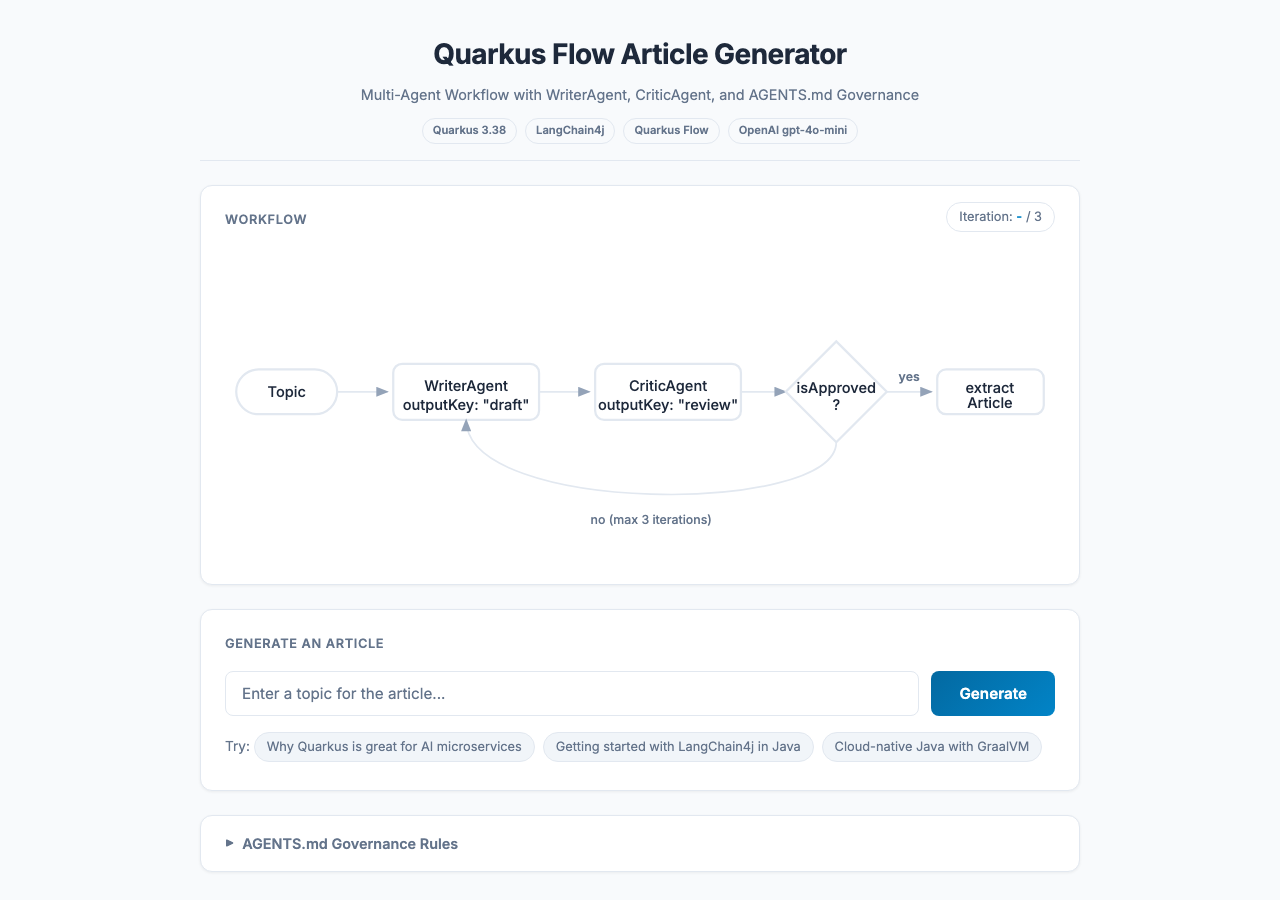
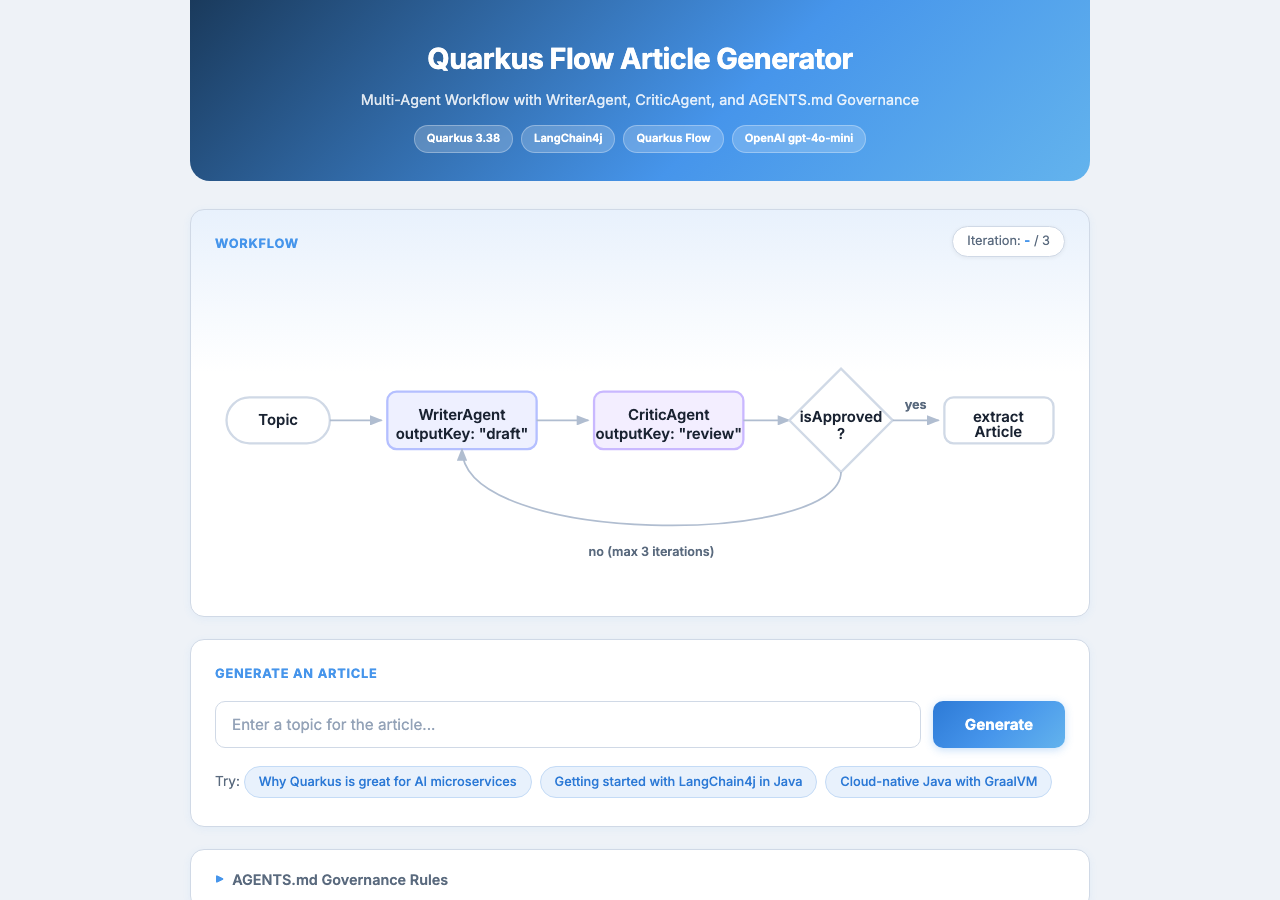
Restyle web UI with Quarkus-inspired blue theme
Blue gradient header, tinted workflow section, colored agent nodes
(indigo for WriterAgent, purple for CriticAgent), deeper shadows,
and Quarkus blue (#4695EB) as the primary accent throughout.

diff --git a/src/main/resources/META-INF/resources/index.html b/src/main/resources/META-INF/resources/index.html
@@ -9,20 +9,21 @@
     *, *::before, *::after { box-sizing: border-box; margin: 0; padding: 0; }
 
     :root {
-      --bg: #f8fafc;
+      --bg: #eef2f7;
       --surface: #ffffff;
-      --surface-elevated: #f1f5f9;
-      --border: #e2e8f0;
-      --text: #1e293b;
-      --text-secondary: #64748b;
-      --accent: #0284c7;
-      --accent-hover: #0369a1;
-      --success: #059669;
-      --warning: #d97706;
-      --error: #dc2626;
-      --writer: #6366f1;
-      --critic: #9333ea;
-      --radius: 12px;
+      --surface-elevated: #f0f4fa;
+      --border: #d0d9e6;
+      --text: #1a2332;
+      --text-secondary: #5a6a7e;
+      --accent: #4695EB;
+      --accent-hover: #2d7ad6;
+      --accent-light: #e8f1fc;
+      --success: #10b981;
+      --warning: #f59e0b;
+      --error: #ef4444;
+      --writer: #4f6bed;
+      --critic: #8b5cf6;
+      --radius: 14px;
     }
 
     body {
@@ -33,87 +34,99 @@
       min-height: 100vh;
     }
 
-    .container { max-width: 920px; margin: 0 auto; padding: 0 20px; }
+    .container { max-width: 940px; margin: 0 auto; padding: 0 20px; }
 
+    /* Header with gradient banner */
     header {
-      padding: 32px 0 16px;
+      background: linear-gradient(135deg, #1a3a5c 0%, #4695EB 60%, #63b3ed 100%);
+      padding: 36px 0 28px;
       text-align: center;
-      border-bottom: 1px solid var(--border);
+      border-radius: 0 0 20px 20px;
+      margin-bottom: 8px;
     }
-    header h1 { font-size: 1.75rem; font-weight: 700; letter-spacing: -0.02em; margin-bottom: 6px; }
-    header p { color: var(--text-secondary); font-size: 0.9rem; }
-    .badges { display: flex; gap: 8px; justify-content: center; margin-top: 12px; }
+    header h1 { font-size: 1.8rem; font-weight: 700; letter-spacing: -0.02em; margin-bottom: 6px; color: #fff; }
+    header p { color: rgba(255,255,255,0.85); font-size: 0.9rem; }
+    .badges { display: flex; gap: 8px; justify-content: center; margin-top: 14px; flex-wrap: wrap; }
     .badge {
-      font-size: 0.7rem; font-weight: 600; padding: 3px 10px;
-      border-radius: 20px; border: 1px solid var(--border); color: var(--text-secondary);
+      font-size: 0.7rem; font-weight: 600; padding: 4px 12px;
+      border-radius: 20px; background: rgba(255,255,255,0.2); color: #fff; backdrop-filter: blur(4px);
+      border: 1px solid rgba(255,255,255,0.3);
     }
 
-    main { padding: 24px 0 48px; display: flex; flex-direction: column; gap: 24px; }
+    main { padding: 20px 0 48px; display: flex; flex-direction: column; gap: 22px; }
 
-    section { background: var(--surface); border: 1px solid var(--border); border-radius: var(--radius); padding: 24px; box-shadow: 0 1px 3px rgba(0,0,0,0.06); }
-    section h2 { font-size: 1rem; font-weight: 600; margin-bottom: 16px; color: var(--text-secondary); text-transform: uppercase; letter-spacing: 0.05em; font-size: 0.8rem; }
+    section {
+      background: var(--surface); border: 1px solid var(--border); border-radius: var(--radius);
+      padding: 24px; box-shadow: 0 2px 8px rgba(70,149,235,0.07);
+    }
+    section h2 {
+      font-size: 0.8rem; font-weight: 700; margin-bottom: 16px; color: var(--accent);
+      text-transform: uppercase; letter-spacing: 0.06em;
+    }
 
     /* Workflow SVG */
-    #workflow-section { position: relative; }
+    #workflow-section { position: relative; background: linear-gradient(180deg, var(--accent-light) 0%, var(--surface) 40%); }
     #workflow-svg { width: 100%; height: auto; display: block; }
     .iteration-badge {
       position: absolute; top: 16px; right: 24px;
       font-size: 0.8rem; color: var(--text-secondary);
-      background: var(--surface); padding: 4px 12px; border-radius: 20px;
-      border: 1px solid var(--border);
+      background: var(--surface); padding: 4px 14px; border-radius: 20px;
+      border: 1px solid var(--border); box-shadow: 0 1px 4px rgba(0,0,0,0.06);
     }
-    .iteration-badge span { color: var(--accent); font-weight: 600; }
+    .iteration-badge span { color: var(--accent); font-weight: 700; }
 
     /* SVG node styles */
     .node-shape { fill: var(--surface); stroke: var(--border); stroke-width: 2; transition: all 0.3s ease; }
-    .node-label { fill: var(--text); font-family: 'Inter', sans-serif; font-size: 13px; font-weight: 500; text-anchor: middle; dominant-baseline: central; }
-    .node-icon { fill: var(--text-secondary); }
-    .edge-line { stroke: var(--border); stroke-width: 1.5; fill: none; transition: stroke 0.3s ease; }
+    .node-group.writer .node-shape { fill: #eef0ff; stroke: #b4bfff; }
+    .node-group.critic .node-shape { fill: #f3eeff; stroke: #c9b8ff; }
+    .node-label { fill: var(--text); font-family: 'Inter', sans-serif; font-size: 13px; font-weight: 600; text-anchor: middle; dominant-baseline: central; }
+    .edge-line { stroke: #b0bdd0; stroke-width: 1.5; fill: none; transition: stroke 0.3s ease; }
     .edge-label { fill: var(--text-secondary); font-family: 'Inter', sans-serif; font-size: 11px; text-anchor: middle; }
 
-    .node-group.active .node-shape { stroke: var(--accent); stroke-width: 2.5; filter: drop-shadow(0 0 6px rgba(2,132,199,0.4)); }
-    .node-group.active.writer .node-shape { stroke: var(--writer); filter: drop-shadow(0 0 6px rgba(99,102,241,0.4)); }
-    .node-group.active.critic .node-shape { stroke: var(--critic); filter: drop-shadow(0 0 6px rgba(147,51,234,0.4)); }
-    .node-group.completed .node-shape { stroke: var(--success); stroke-width: 2; }
-    .node-group.completed .node-label { fill: var(--success); }
+    .node-group.active .node-shape { stroke: var(--accent); stroke-width: 3; fill: var(--accent-light); filter: drop-shadow(0 0 10px rgba(70,149,235,0.45)); }
+    .node-group.active.writer .node-shape { stroke: var(--writer); fill: #e0e5ff; filter: drop-shadow(0 0 10px rgba(79,107,237,0.45)); }
+    .node-group.active.critic .node-shape { stroke: var(--critic); fill: #ebe5ff; filter: drop-shadow(0 0 10px rgba(139,92,246,0.45)); }
+    .node-group.completed .node-shape { stroke: var(--success); stroke-width: 2.5; fill: #ecfdf5; }
+    .node-group.completed .node-label { fill: #047857; }
 
-    .edge-line.active { stroke: var(--accent); stroke-width: 2; }
-    .edge-line.loop-active { stroke: var(--warning); stroke-width: 2; stroke-dasharray: 8 4; animation: dash-flow 0.6s linear infinite; }
+    .edge-line.active { stroke: var(--accent); stroke-width: 2.5; }
+    .edge-line.loop-active { stroke: var(--warning); stroke-width: 2.5; stroke-dasharray: 8 4; animation: dash-flow 0.6s linear infinite; }
     @keyframes dash-flow { to { stroke-dashoffset: -12; } }
-    @keyframes pulse { 0%,100% { opacity: 1; } 50% { opacity: 0.6; } }
+    @keyframes pulse { 0%,100% { opacity: 1; } 50% { opacity: 0.5; } }
     .node-group.active .node-shape { animation: pulse 1.5s ease-in-out infinite; }
 
     /* Input */
     #input-section form { display: flex; gap: 12px; }
     #topic-input {
-      flex: 1; padding: 12px 16px; border-radius: 8px; border: 1px solid var(--border);
+      flex: 1; padding: 13px 16px; border-radius: 10px; border: 1.5px solid var(--border);
       background: var(--surface); color: var(--text); font-size: 0.95rem; font-family: inherit;
-      outline: none; transition: border-color 0.2s;
+      outline: none; transition: all 0.2s;
     }
-    #topic-input:focus { border-color: var(--accent); box-shadow: 0 0 0 2px rgba(2,132,199,0.15); }
-    #topic-input::placeholder { color: var(--text-secondary); }
+    #topic-input:focus { border-color: var(--accent); box-shadow: 0 0 0 3px rgba(70,149,235,0.15); }
+    #topic-input::placeholder { color: #94a3b8; }
     #generate-btn {
-      padding: 12px 28px; border-radius: 8px; border: none; cursor: pointer;
-      background: linear-gradient(135deg, var(--accent-hover), var(--accent)); color: #fff;
-      font-weight: 600; font-size: 0.95rem; font-family: inherit; white-space: nowrap; transition: opacity 0.2s;
+      padding: 13px 32px; border-radius: 10px; border: none; cursor: pointer;
+      background: linear-gradient(135deg, #2d7ad6, #4695EB, #63b3ed); color: #fff;
+      font-weight: 700; font-size: 0.95rem; font-family: inherit; white-space: nowrap;
+      transition: all 0.2s; box-shadow: 0 2px 8px rgba(70,149,235,0.3);
     }
-    #generate-btn:hover:not(:disabled) { opacity: 0.9; }
-    #generate-btn:disabled { opacity: 0.5; cursor: not-allowed; }
-    .example-topics { margin-top: 12px; font-size: 0.85rem; color: var(--text-secondary); }
+    #generate-btn:hover:not(:disabled) { box-shadow: 0 4px 14px rgba(70,149,235,0.4); transform: translateY(-1px); }
+    #generate-btn:disabled { opacity: 0.5; cursor: not-allowed; transform: none; box-shadow: none; }
+    .example-topics { margin-top: 14px; font-size: 0.85rem; color: var(--text-secondary); }
     .chip {
-      display: inline-block; padding: 4px 12px; margin: 4px 4px 4px 0;
-      background: var(--surface-elevated); border: 1px solid var(--border); border-radius: 20px;
-      cursor: pointer; font-size: 0.8rem; color: var(--text-secondary); transition: all 0.2s;
+      display: inline-block; padding: 5px 14px; margin: 4px 4px 4px 0;
+      background: var(--accent-light); border: 1px solid #c4dbf6; border-radius: 20px;
+      cursor: pointer; font-size: 0.8rem; color: var(--accent-hover); transition: all 0.2s; font-weight: 500;
     }
-    .chip:hover { border-color: var(--accent); color: var(--accent); }
+    .chip:hover { background: #d4e6f9; border-color: var(--accent); color: var(--accent); }
 
     /* Progress */
     #progress-section.hidden, #article-section.hidden, #error-banner.hidden { display: none; }
-    #progress-log { display: flex; flex-direction: column; gap: 6px; max-height: 300px; overflow-y: auto; }
+    #progress-log { display: flex; flex-direction: column; gap: 4px; max-height: 300px; overflow-y: auto; }
     .log-entry {
-      display: flex; align-items: center; gap: 10px; padding: 6px 0;
+      display: flex; align-items: center; gap: 10px; padding: 7px 12px; border-radius: 8px;
       font-size: 0.85rem; opacity: 0; transform: translateY(8px);
-      animation: log-in 0.3s ease forwards;
+      animation: log-in 0.3s ease forwards; background: var(--surface-elevated);
     }
     @keyframes log-in { to { opacity: 1; transform: translateY(0); } }
     .log-dot { width: 8px; height: 8px; border-radius: 50%; flex-shrink: 0; }
@@ -128,56 +141,57 @@
 
     /* Error */
     #error-banner {
-      background: #fef2f2; border: 1px solid var(--error); border-radius: 8px;
-      padding: 12px 16px; color: var(--error); font-size: 0.9rem;
+      background: #fef2f2; border: 1px solid var(--error); border-radius: 10px;
+      padding: 14px 18px; color: #b91c1c; font-size: 0.9rem; font-weight: 500;
     }
 
     /* Article */
     .article-header { display: flex; justify-content: space-between; align-items: center; margin-bottom: 16px; }
     #copy-btn {
-      padding: 6px 16px; border-radius: 6px; border: 1px solid var(--border);
-      background: transparent; color: var(--text-secondary); cursor: pointer;
-      font-size: 0.8rem; font-family: inherit; transition: all 0.2s;
+      padding: 7px 18px; border-radius: 8px; border: 1.5px solid var(--border);
+      background: var(--surface); color: var(--text-secondary); cursor: pointer;
+      font-size: 0.8rem; font-family: inherit; font-weight: 500; transition: all 0.2s;
     }
-    #copy-btn:hover { border-color: var(--accent); color: var(--accent); }
+    #copy-btn:hover { border-color: var(--accent); color: var(--accent); background: var(--accent-light); }
     .article-prose {
-      background: var(--surface-elevated); border-radius: 8px; padding: 24px; border-left: 3px solid var(--accent);
+      background: var(--surface-elevated); border-radius: 10px; padding: 28px; border-left: 4px solid var(--accent);
       max-height: 600px; overflow-y: auto; line-height: 1.8;
     }
     .article-prose h1 { font-size: 1.4rem; font-weight: 700; margin: 20px 0 10px; color: var(--text); }
-    .article-prose h2 { font-size: 1.15rem; font-weight: 600; margin: 18px 0 8px; color: var(--text); }
-    .article-prose h3 { font-size: 1rem; font-weight: 600; margin: 14px 0 6px; color: var(--text); }
+    .article-prose h2 { font-size: 1.15rem; font-weight: 600; margin: 18px 0 8px; color: #1a3a5c; }
+    .article-prose h3 { font-size: 1rem; font-weight: 600; margin: 14px 0 6px; color: #1a3a5c; }
     .article-prose p { margin-bottom: 12px; color: var(--text); }
     .article-prose strong { color: var(--text); font-weight: 700; }
-    .article-prose code { background: #e2e8f0; padding: 2px 6px; border-radius: 4px; font-size: 0.85em; font-family: 'JetBrains Mono', monospace; }
-    .article-prose pre { background: #1e293b; color: #e2e8f0; padding: 16px; border-radius: 8px; overflow-x: auto; margin: 12px 0; }
-    .article-prose pre code { background: none; padding: 0; }
+    .article-prose code { background: #dde5ef; padding: 2px 7px; border-radius: 5px; font-size: 0.85em; font-family: 'JetBrains Mono', monospace; color: #1a3a5c; }
+    .article-prose pre { background: #1a2332; color: #cbd5e1; padding: 18px; border-radius: 10px; overflow-x: auto; margin: 14px 0; }
+    .article-prose pre code { background: none; padding: 0; color: inherit; }
     .article-prose ul, .article-prose ol { margin: 8px 0 12px 24px; }
     .article-prose li { margin-bottom: 4px; }
 
     /* Governance */
-    .governance-panel { background: var(--surface); border: 1px solid var(--border); border-radius: var(--radius); box-shadow: 0 1px 3px rgba(0,0,0,0.06); }
+    .governance-panel { background: var(--surface); border: 1px solid var(--border); border-radius: var(--radius); box-shadow: 0 2px 8px rgba(70,149,235,0.07); }
     .governance-panel summary {
-      padding: 16px 24px; cursor: pointer; font-weight: 600; font-size: 0.9rem;
+      padding: 18px 24px; cursor: pointer; font-weight: 600; font-size: 0.9rem;
       color: var(--text-secondary); list-style: none; display: flex; align-items: center; gap: 8px;
     }
-    .governance-panel summary::before { content: '\25B6'; font-size: 0.7rem; transition: transform 0.2s; }
+    .governance-panel summary::before { content: '\25B6'; font-size: 0.7rem; transition: transform 0.2s; color: var(--accent); }
     .governance-panel[open] summary::before { transform: rotate(90deg); }
     .governance-panel summary::-webkit-details-marker { display: none; }
     .governance-content { padding: 0 24px 20px; }
-    .governance-content h3 { font-size: 0.85rem; font-weight: 600; margin: 12px 0 6px; color: var(--accent); }
+    .governance-content h3 { font-size: 0.85rem; font-weight: 700; margin: 14px 0 6px; color: var(--accent); }
     .governance-content ul { margin-left: 20px; font-size: 0.85rem; color: var(--text-secondary); }
-    .governance-content li { margin-bottom: 4px; }
+    .governance-content li { margin-bottom: 5px; }
 
     footer {
-      text-align: center; padding: 24px 0; border-top: 1px solid var(--border);
+      text-align: center; padding: 28px 0; border-top: 1px solid var(--border);
       font-size: 0.8rem; color: var(--text-secondary);
     }
-    footer a { color: var(--accent); text-decoration: none; }
+    footer a { color: var(--accent); text-decoration: none; font-weight: 500; }
     footer a:hover { text-decoration: underline; }
 
     @media (max-width: 640px) {
       header h1 { font-size: 1.3rem; }
+      header { border-radius: 0; }
       #input-section form { flex-direction: column; }
       section { padding: 16px; }
       #workflow-svg { overflow-x: auto; }
@@ -205,13 +219,13 @@
         <svg id="workflow-svg" viewBox="0 0 740 280" xmlns="http://www.w3.org/2000/svg">
           <defs>
             <marker id="arrow" viewBox="0 0 10 8" refX="9" refY="4" markerWidth="8" markerHeight="6" orient="auto-start-reverse">
-              <path d="M 0 0 L 10 4 L 0 8 z" fill="#94a3b8" class="arrow-fill"/>
+              <path d="M 0 0 L 10 4 L 0 8 z" fill="#b0bdd0"/>
             </marker>
             <marker id="arrow-active" viewBox="0 0 10 8" refX="9" refY="4" markerWidth="8" markerHeight="6" orient="auto-start-reverse">
-              <path d="M 0 0 L 10 4 L 0 8 z" fill="#0284c7"/>
+              <path d="M 0 0 L 10 4 L 0 8 z" fill="#4695EB"/>
             </marker>
             <marker id="arrow-loop" viewBox="0 0 10 8" refX="9" refY="4" markerWidth="8" markerHeight="6" orient="auto-start-reverse">
-              <path d="M 0 0 L 10 4 L 0 8 z" fill="#d97706"/>
+              <path d="M 0 0 L 10 4 L 0 8 z" fill="#f59e0b"/>
             </marker>
           </defs>
 
@@ -253,7 +267,7 @@
 
           <!-- Edge: Decision -> Extract (yes) -->
           <line id="edge-decision-extract" class="edge-line" x1="590" y1="130" x2="630" y2="130" marker-end="url(#arrow)"/>
-          <text class="edge-label" x="610" y="120" fill="#059669" font-size="11" font-weight="600">yes</text>
+          <text class="edge-label" x="610" y="120" fill="#10b981" font-size="11" font-weight="700">yes</text>
 
           <!-- extractArticle Node -->
           <g id="node-extract" class="node-group">
@@ -264,7 +278,7 @@
 
           <!-- Loop-back arrow: Decision -> Writer (no) -->
           <path id="edge-loop" class="edge-line" d="M 545 175 C 545 240, 215 240, 215 155" marker-end="url(#arrow)" fill="none"/>
-          <text class="edge-label" x="380" y="248" fill="#d97706" font-size="11" font-weight="500">no (max 3 iterations)</text>
+          <text class="edge-label" x="380" y="248" fill="#f59e0b" font-size="11" font-weight="600">no (max 3 iterations)</text>
         </svg>
       </section>
 
